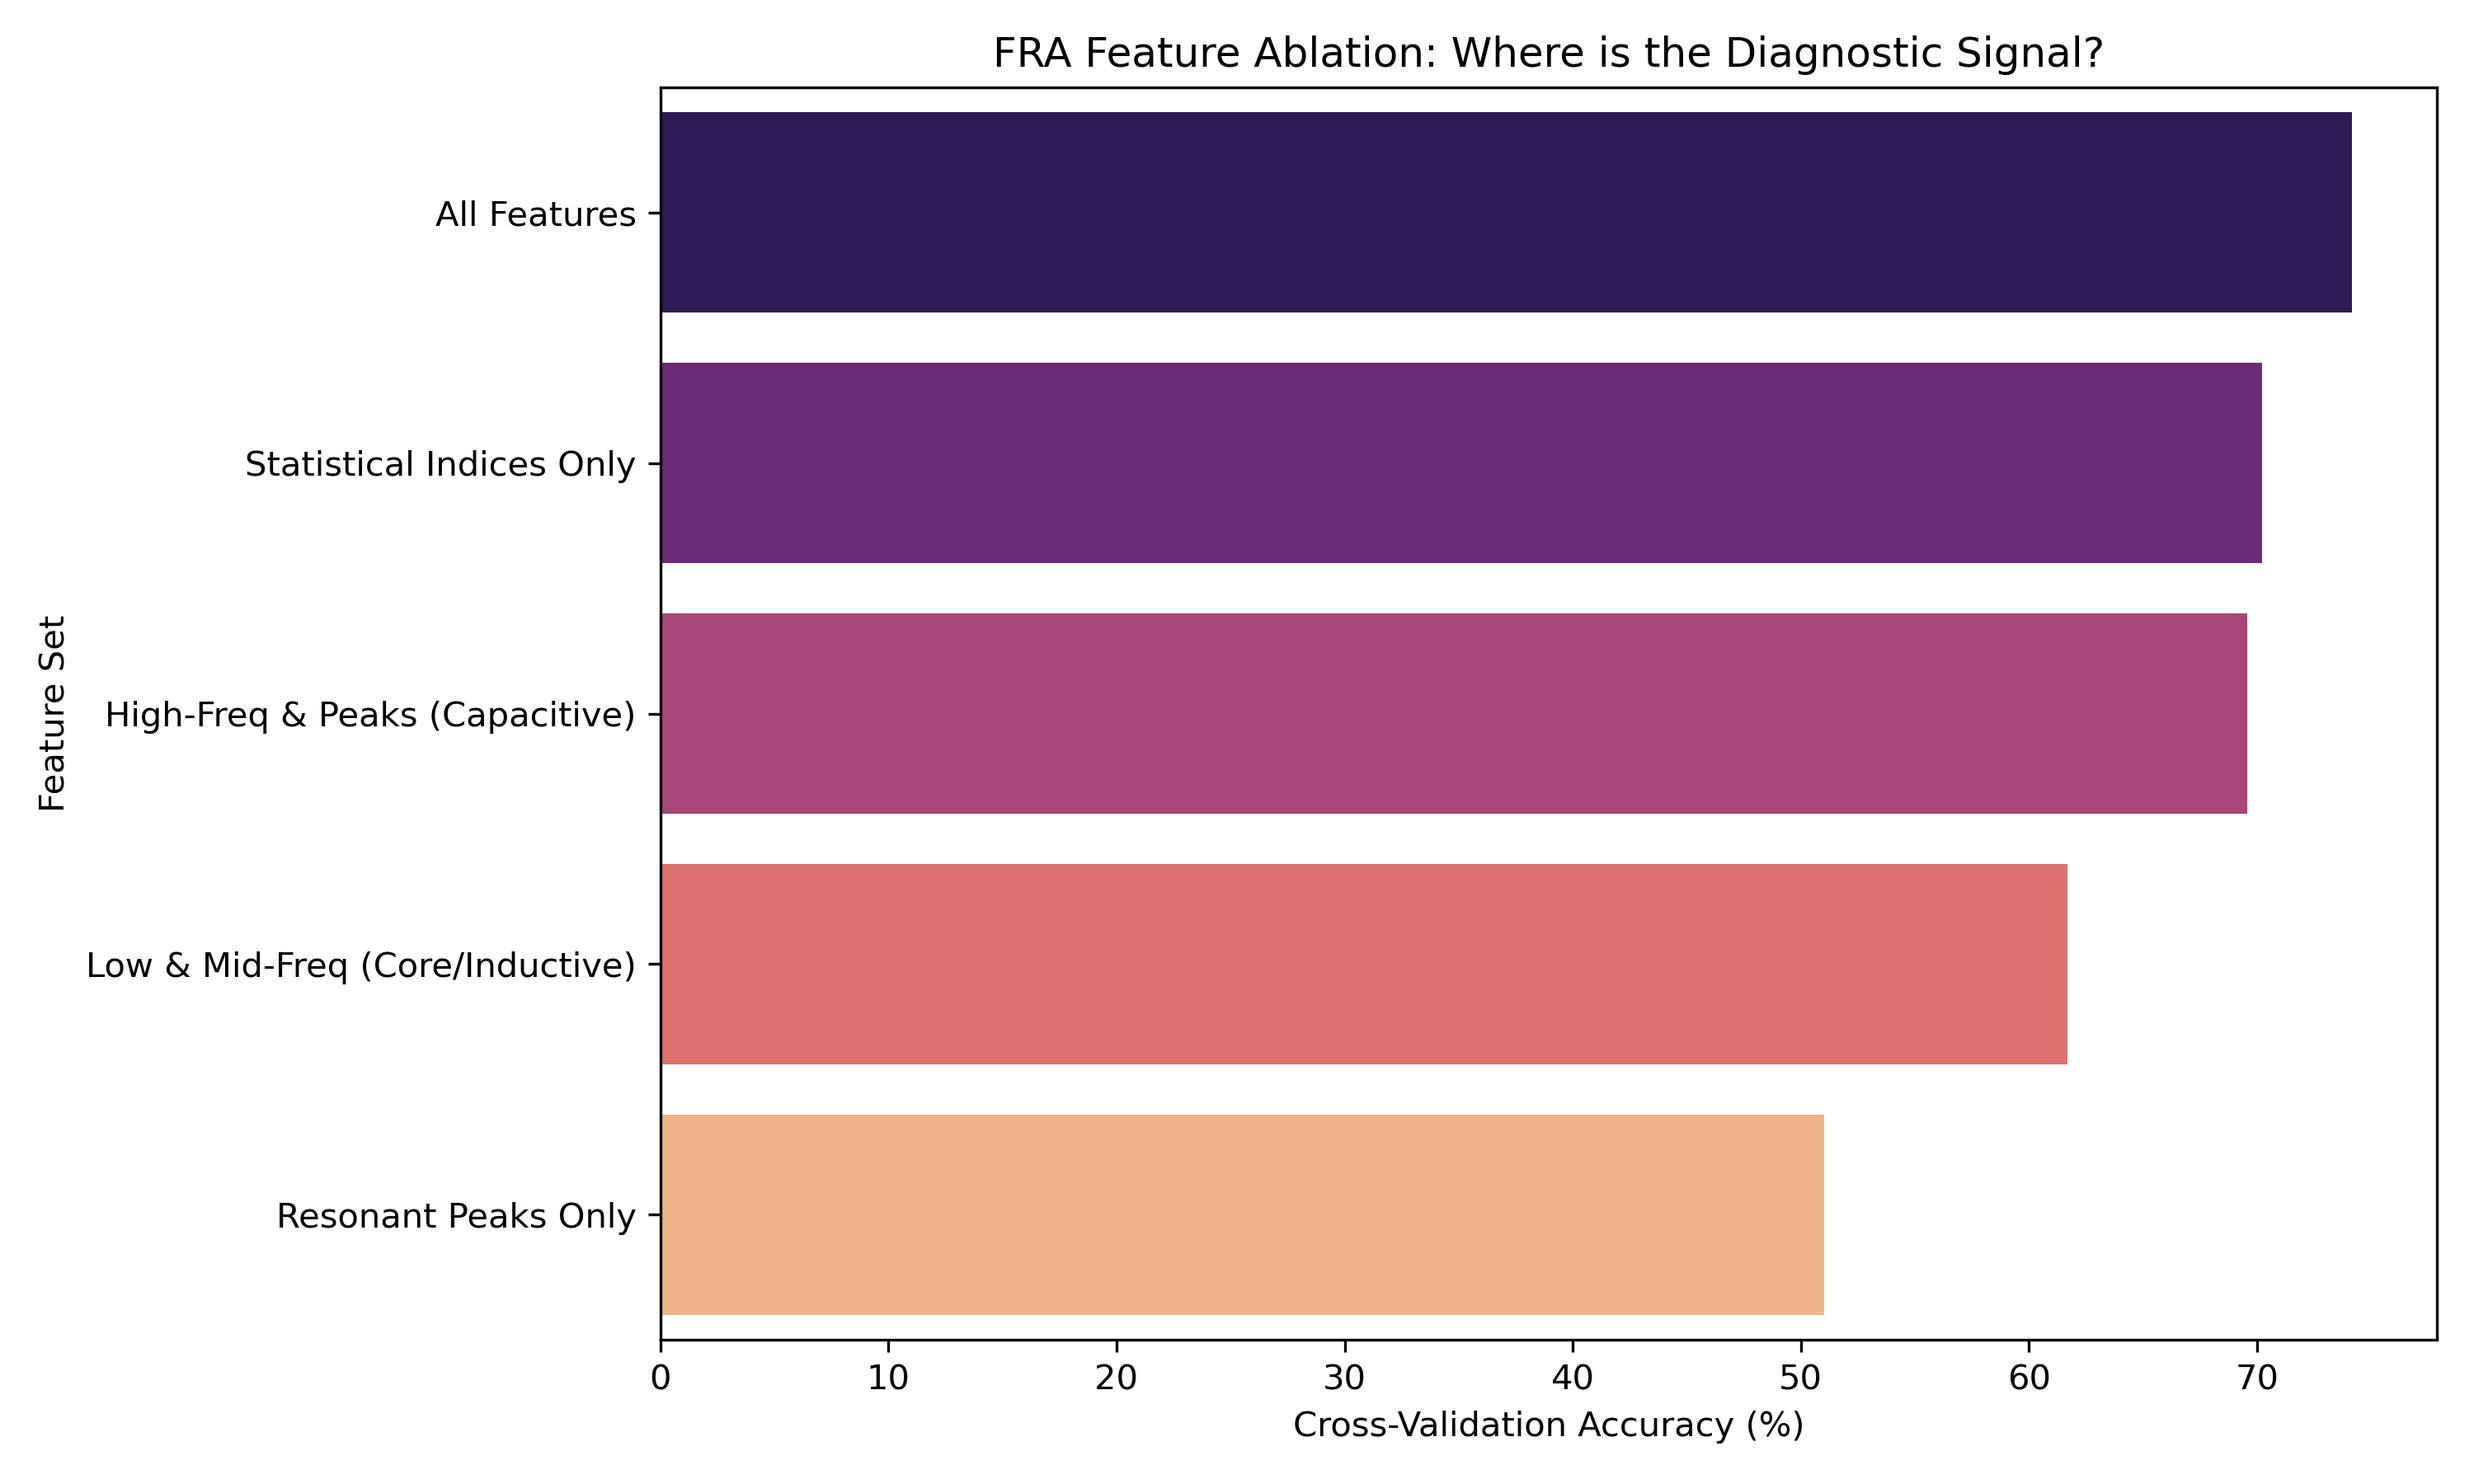
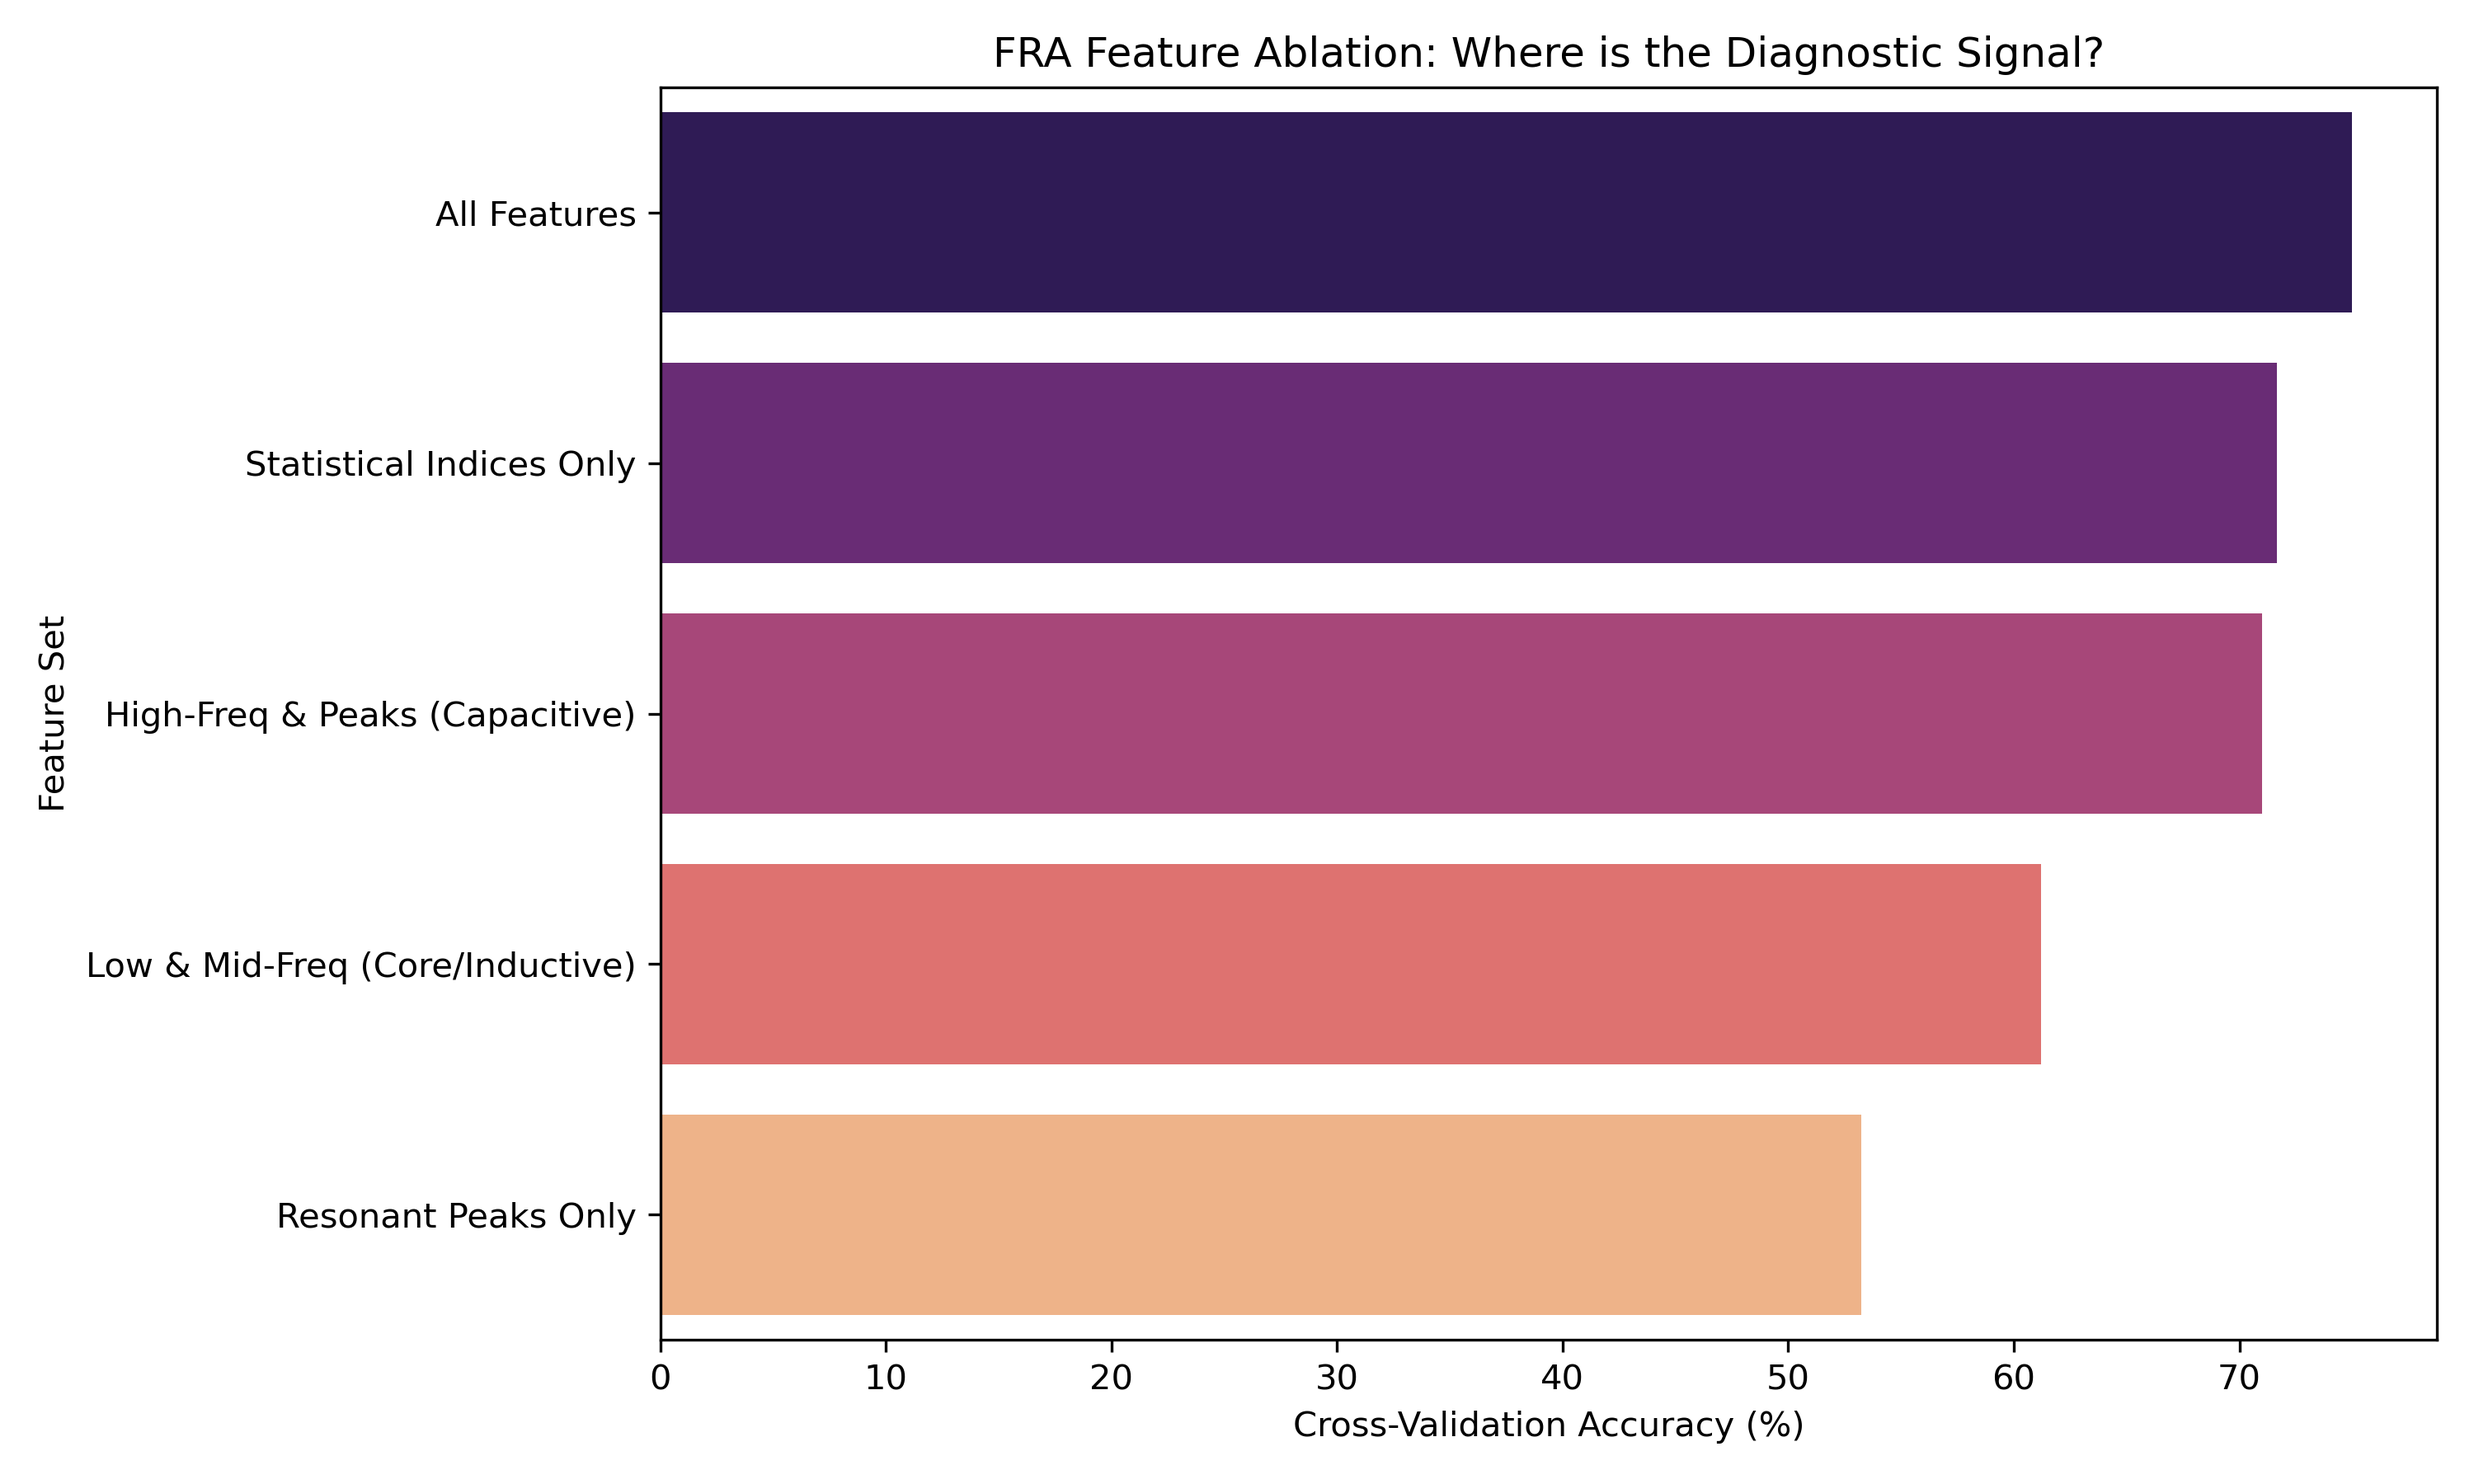
Added Depth

diff --git a/Simulation_Py/Multimodel.py b/Simulation_Py/Multimodel.py
@@ -33,6 +33,18 @@ FEATURE_EXPERIMENTS = {
     "Resonant Peaks Only": [f for f in ALL_FEATURES if 'Peak' in f]
 }
 
+
+# DATASET SUBSAMPLING (WIDTH & DEPTH)
+# Isolate variables without relying on new physical simulations.
+SUBSAMPLE_DATA = True
+
+# WIDTH: How many unique transformers (DNAs) per fault class? (e.g., limit to 100)
+MAX_DNAS_PER_CLASS = 150 
+
+# DEPTH: How many historical sweeps per transformer? (e.g., limit to 2)
+MAX_SWEEPS_PER_DNA = 3
+
+
 # ==========================================
 # 2. DATA PREPARATION
 # ==========================================
@@ -40,7 +52,7 @@ print("Loading dataset...")
 df = pd.read_csv('Simulation_Py/Master_ML_Dataset.csv')
 
 df['Severity'] = df['Severity'].fillna('0%').astype(str).str.strip()
-df.fillna(-1, inplace=True) # CS Fix: Explicitly flag missing peaks as -1
+df.fillna(-1, inplace=True) # Explicitly flag missing peaks as -1
 
 df = df[df['True_Label'].isin(CLASSES_TO_INCLUDE)]
 df = df[df['Severity'].isin(SEVERITIES_TO_INCLUDE)]
@@ -48,14 +60,58 @@ df = df[df['Severity'].isin(SEVERITIES_TO_INCLUDE)]
 y = df['True_Label']
 groups = df['Unit_ID']
 
-# Safe Group Split for Final Testing
+# ---------------------------------------------------------
+# STEP 1: FREEZE THE TEST SET FIRST
+# We lock away a massive, unseen 20% of the data. 
+# This Test Set will NEVER be reduced, ensuring a fair baseline.
+# ---------------------------------------------------------
 gss = GroupShuffleSplit(n_splits=1, test_size=0.2, random_state=42)
 train_idx, test_idx = next(gss.split(df, y, groups=groups))
 
-df_train = df.iloc[train_idx]
-df_test = df.iloc[test_idx]
+df_train = df.iloc[train_idx].copy()
+df_test = df.iloc[test_idx].copy()
 y_train, y_test = y.iloc[train_idx], y.iloc[test_idx]
 groups_train = groups.iloc[train_idx]
+
+print(f"[DATA SPLIT] Massive Test Vault Frozen: {df_test['Unit_ID'].nunique()} Unique Transformers.")
+
+# ---------------------------------------------------------
+# STEP 2: STRATIFIED SUBSAMPLING ON TRAINING DATA ONLY
+# ---------------------------------------------------------
+if SUBSAMPLE_DATA:
+    print(f"[DATA PREP] Subsampling Training Set -> Width: {MAX_DNAS_PER_CLASS}/class | Depth: {MAX_SWEEPS_PER_DNA}/DNA")
+    filtered_dfs = []
+    np.random.seed(42) 
+
+    for label, class_df in df_train.groupby('True_Label'):
+        unique_locations = class_df['Location_of_fault'].unique()
+        dnas_per_loc = max(1, MAX_DNAS_PER_CLASS // len(unique_locations))
+        
+        for loc in unique_locations:
+            loc_df = class_df[class_df['Location_of_fault'] == loc]
+            unique_dnas_in_loc = loc_df['Unit_ID'].unique()
+            
+            # WIDTH: Extract evenly from each physical location
+            if len(unique_dnas_in_loc) > dnas_per_loc:
+                selected_dnas = np.random.choice(unique_dnas_in_loc, dnas_per_loc, replace=False)
+            else:
+                selected_dnas = unique_dnas_in_loc
+                
+            width_filtered_df = loc_df[loc_df['Unit_ID'].isin(selected_dnas)]
+            
+            # DEPTH: Randomly sample sweeps instead of sequentially grabbing the top (FRA Fix)
+            # We use lambda to sample safely (in case a unit has fewer sweeps than MAX_SWEEPS)
+            depth_filtered_df = width_filtered_df.groupby('Unit_ID').apply(
+                lambda x: x.sample(n=min(len(x), MAX_SWEEPS_PER_DNA), random_state=42)
+            ).reset_index(drop=True)
+            
+            filtered_dfs.append(depth_filtered_df)
+        
+    # Reassemble the Training Set
+    df_train = pd.concat(filtered_dfs).reset_index(drop=True)
+    y_train = df_train['True_Label']
+    groups_train = df_train['Unit_ID']
+    print(f"  -> Training Subsampling complete. Train Shape: {df_train.shape} | Test Shape: {df_test.shape}\n")
 
 # Cross-Validation Strategy for Tuning
 # ==========================================
